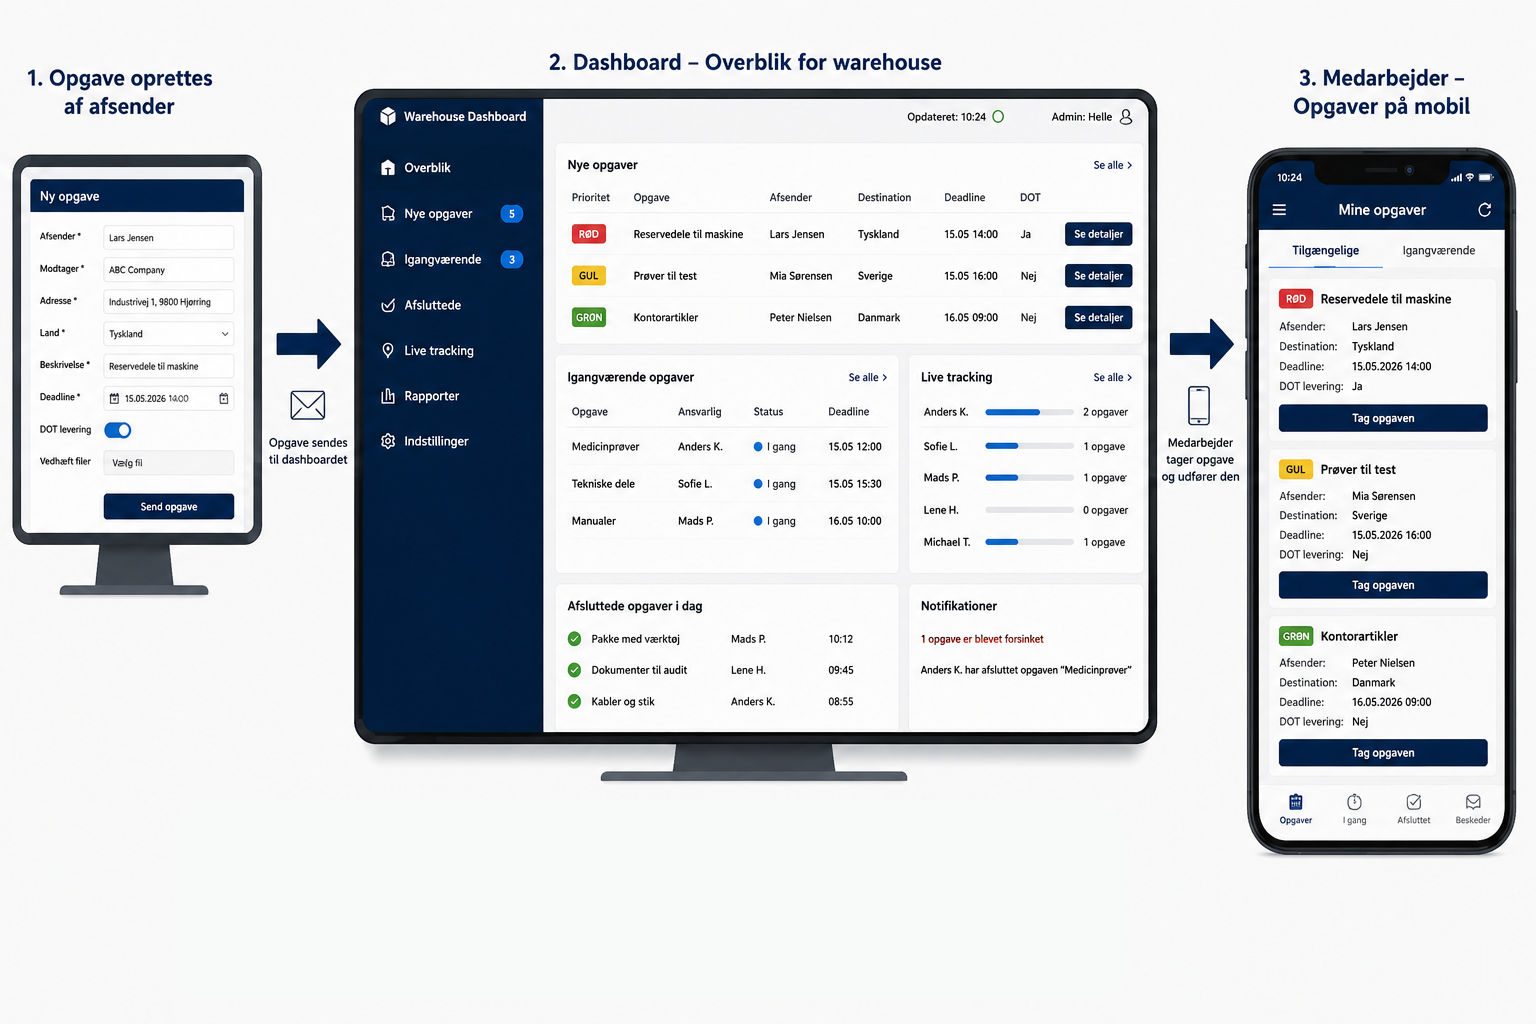
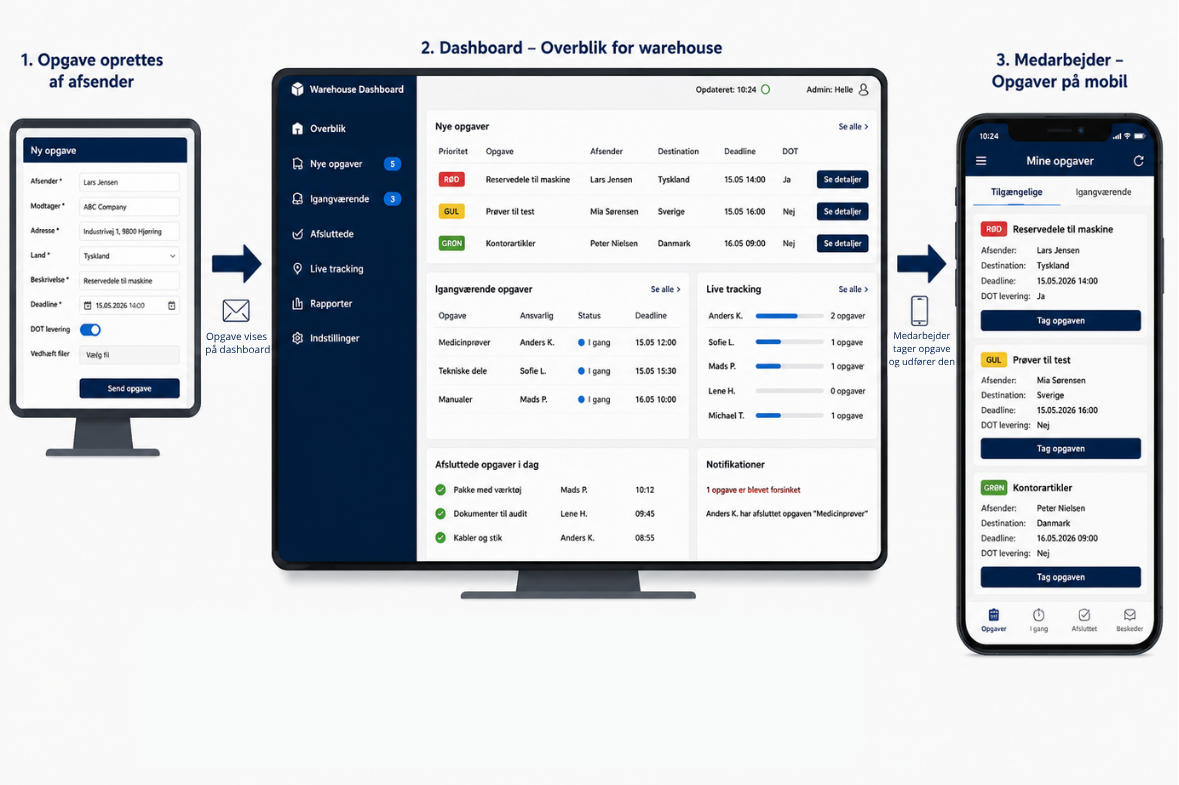
Opdateret README
Forbedring af mockup og indsættelse af filstruktur overblik + node kommandater til initialisering

diff --git a/README.md b/README.md
@@ -40,13 +40,19 @@ Udviklingen opdeles i følgende overordnede faser:
 
 # Design og arkitektur
 Selve designet / visionen for systemet er således:
-![alt text](zpictures/Mockup.PNG)
+![alt text](zpictures/Mockup.png)
 
 Systemet bliver en serverbaseret webapplikation bestående af 4 primære klientgrænseflader:
 - Login interface
 - Task Creation Portal (1)
 - Warehouse Dashboard (2)
 - Mobile Worker Interface (3)
+
+Hertil en database der skal lagre:
+- Users
+- Opgaver / tasks
+- Task historik
+- Beskeder der "sendes" ved afslutning af task
 
 ## Requirements
 Krav som fundet i forlængelse af AS-IS og TO-BE analyse i projektarbejdet
@@ -85,11 +91,41 @@ Valg af teknologier:
 ### Database
 - SQLite
 
-### Versionsstyring
+### Versionsstyring og samarbejde
 - GitHub Desktop
 - GitHub
+- Liveshare
 
 ## Struktur og sammenhæng
 Her ses hvordan vi er gået fra et mockup til egentlig systemdesign på baggrund af de valgte teknologier
 
 ![alt text](zpictures/Komponentdiagram.png)
+
+Fælles aftale for filstruktur, så der kan udvikles parallelt!!! (Temp filer for nu)
+
+```bash
+M6-Eksamen/
+│
+├── public/
+│   ├── css/
+│   └── js/
+│
+├── server/
+│   ├── database/
+│   ├── middleware/
+│   └── routes/
+│
+├── views/
+│   ├── admin.html
+│   ├── login.html
+│   ├── mobile.html
+│   └── task.html
+└──
+```
+
+# Vigtige kommandoer / setup
+For at initialisere Node til projektet og installere alle dependencies skal disse kommandoer køres:
+
+npm init -y \
+npm install express sqlite3 express-session bcrypt socket.io (Tech-stack som vi regner med at bruge) \
+npm install nodemon --save-dev (Rart at have til at genstarte applikationer når der foretages en ændring)
